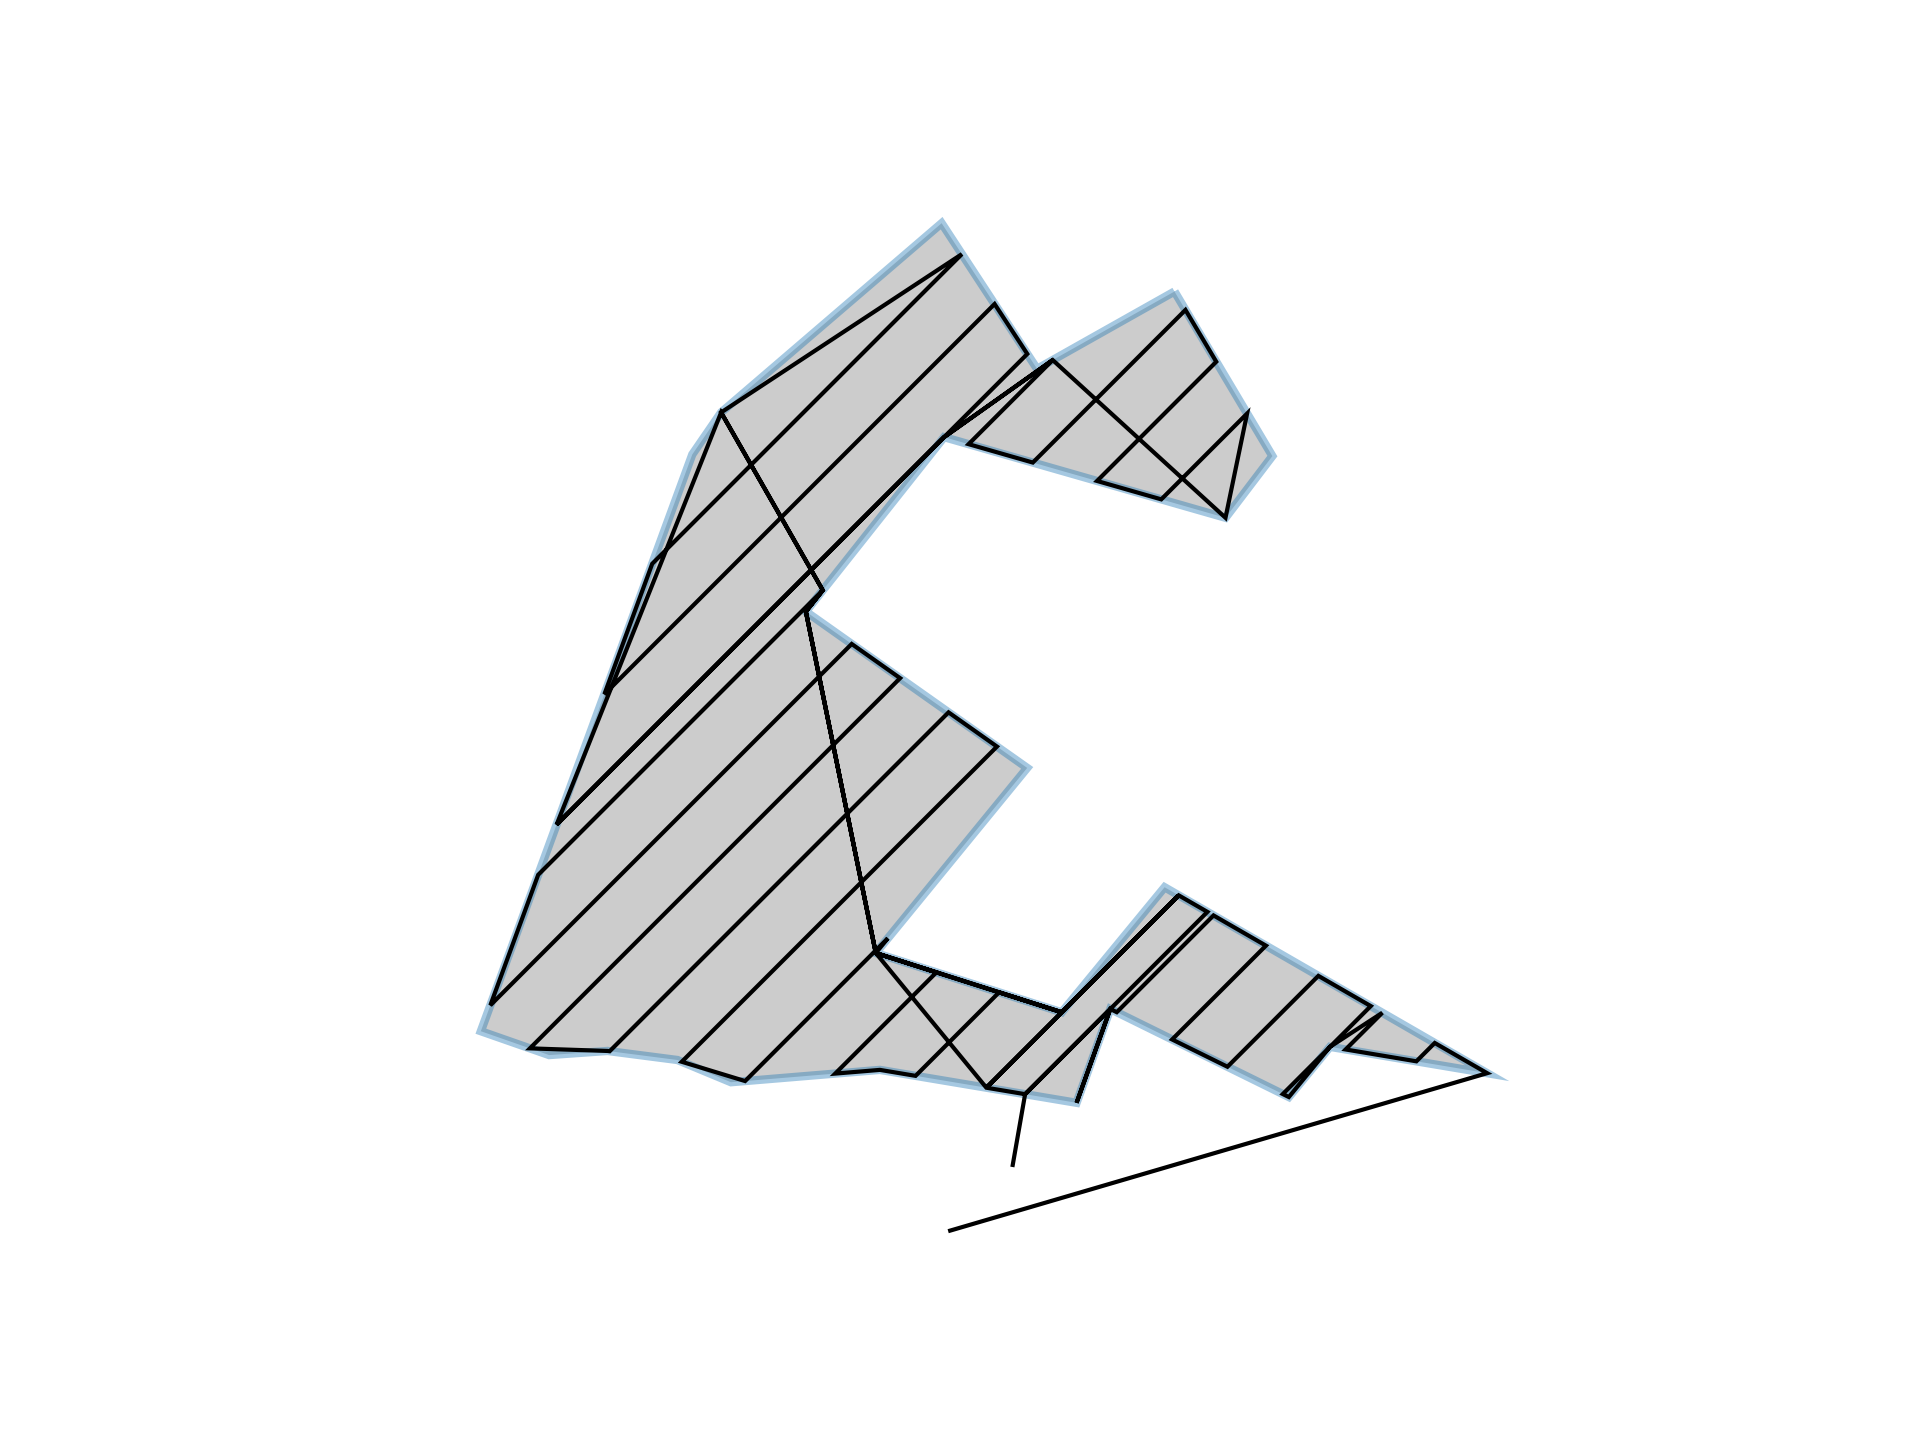
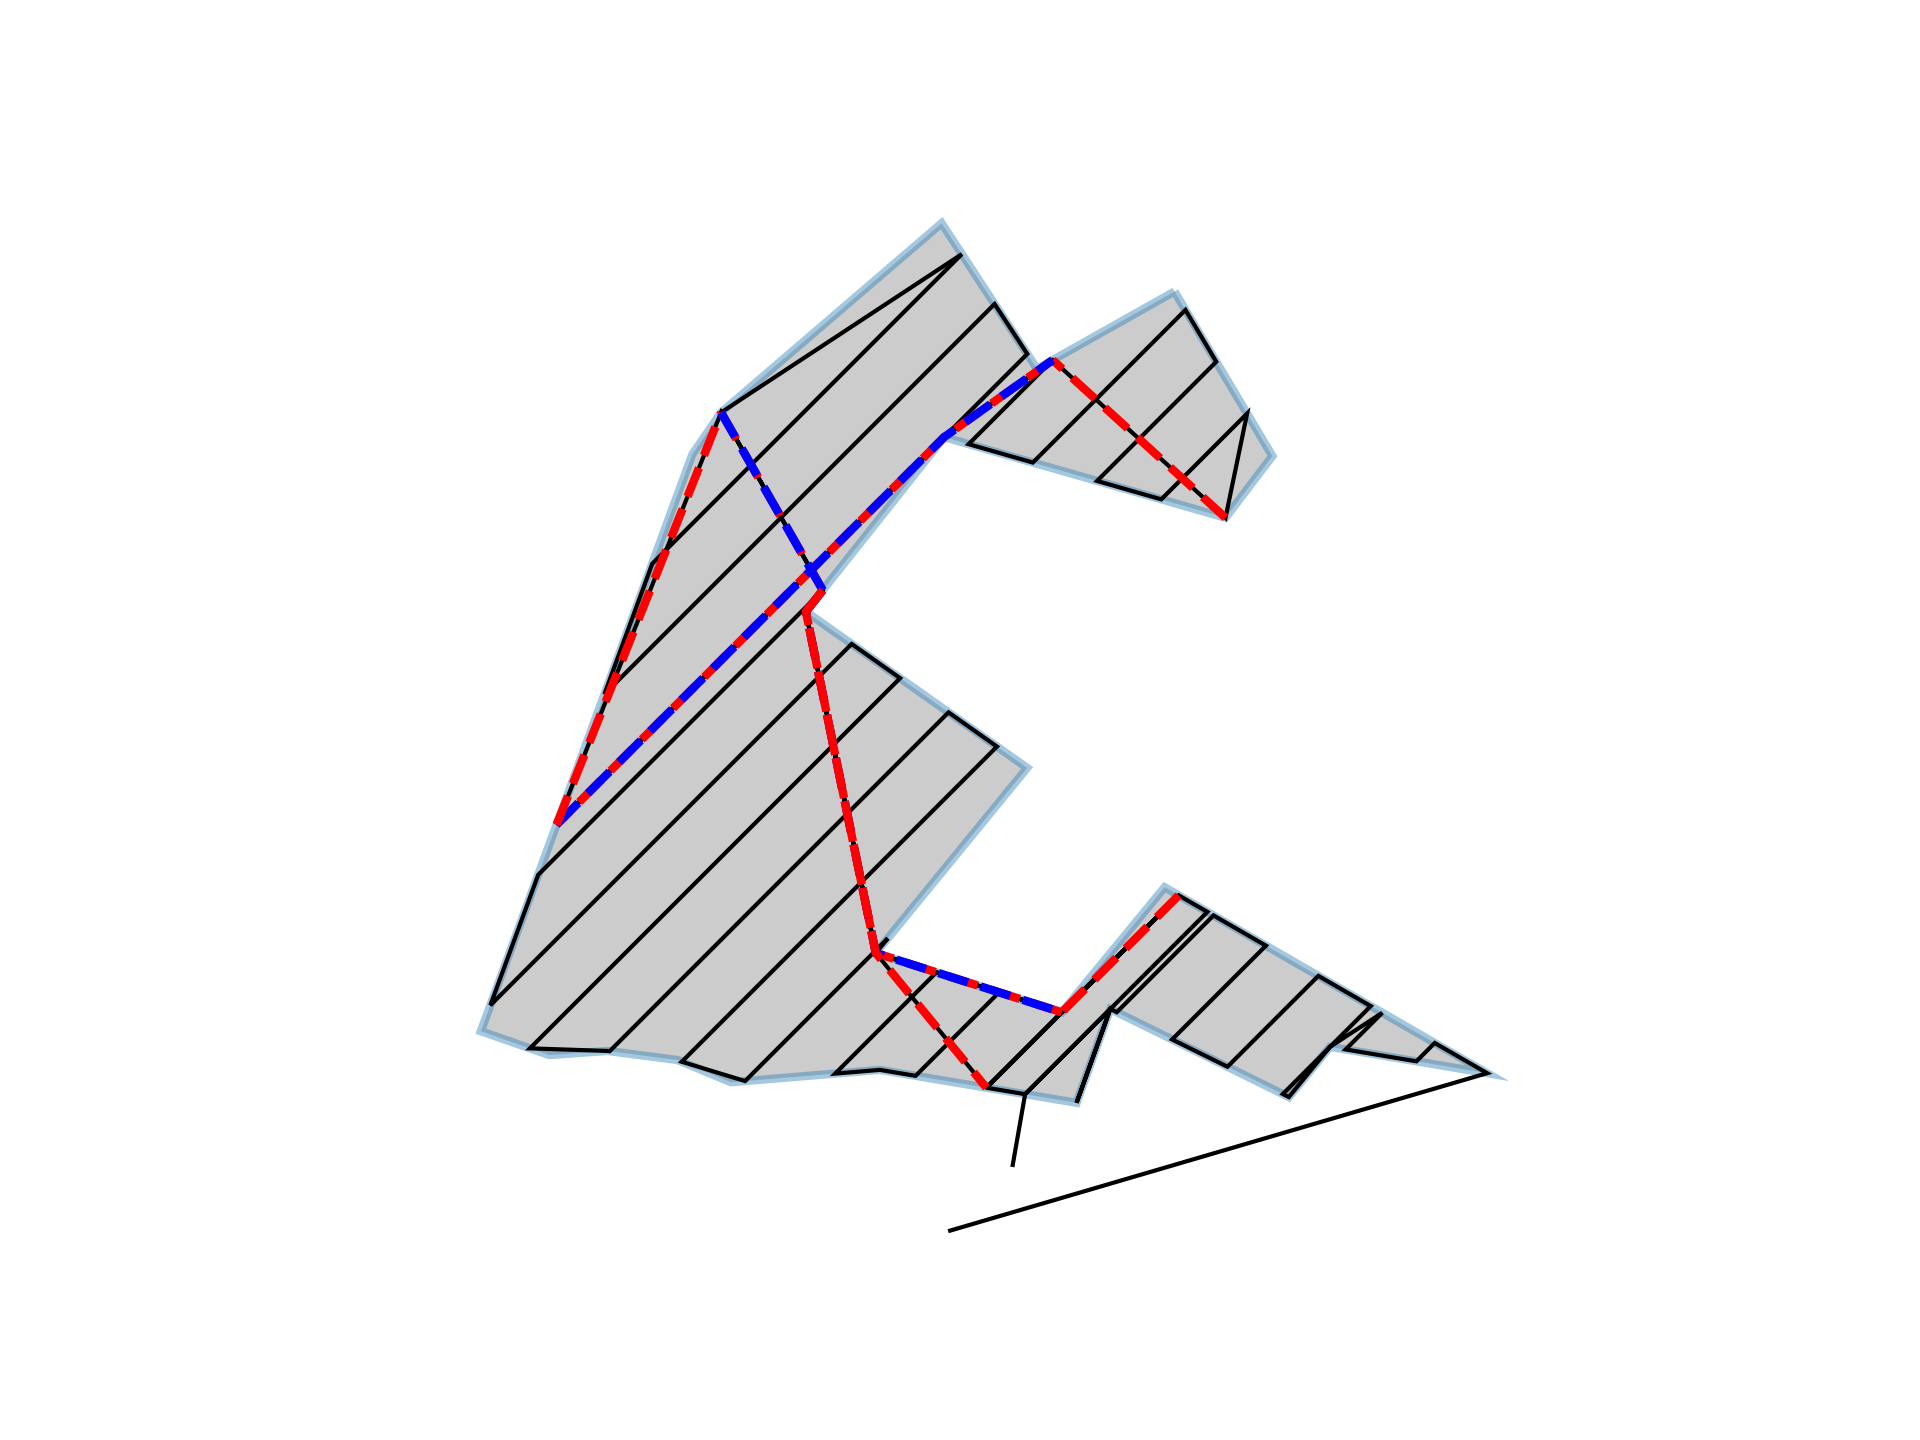
考虑正向打印

diff --git a/trajgenpy/Geometries.py b/trajgenpy/Geometries.py
@@ -149,6 +149,7 @@ class DFSearcher:
 
         # 初始化 MultiLineString 用于回溯线
         backtrack_lines = []
+        forward_lines = []
 
         if is_rev == 0:
             head_point = list(current_traj.coords)[0]
@@ -162,6 +163,8 @@ class DFSearcher:
             prev_point = self.final_path[-1]
             path, _ = self.connect(self.polygon, prev_point, head_point)
             self.final_path.extend(path)
+            if len(path) > 1:
+                forward_lines.append(shapely.LineString(path))
         else:
             is_start = 1
             self.final_path.append(start_point)  # 添加起始点
@@ -211,7 +214,11 @@ class DFSearcher:
         # 创建 MultiLineString 包含所有回溯线段
         if backtrack_lines:
             backtrack_multilines = shapely.MultiLineString(backtrack_lines)
-            #self.plot_multilines(backtrack_multilines)
+            self.plot_multilines(backtrack_multilines)
+
+        if forward_lines:
+            forward_multilines = shapely.MultiLineString(forward_lines)
+            self.forward_plot_multilines(forward_multilines)
 
         return False
 
@@ -222,6 +229,16 @@ class DFSearcher:
             line = rotate(line, angle=-45, origin=(0, 0))
             x, y = line.xy
             plt.plot(x, y, linestyle='dashed', color='red', linewidth=2)
+
+        plt.show()
+
+    def forward_plot_multilines(self, multilines):
+        import matplotlib.pyplot as plt
+        from shapely.affinity import rotate
+        for line in multilines.geoms:
+            line = rotate(line, angle=-45, origin=(0, 0))
+            x, y = line.xy
+            plt.plot(x, y, linestyle='dashed', color='blue', linewidth=2)
 
         plt.show()
 
